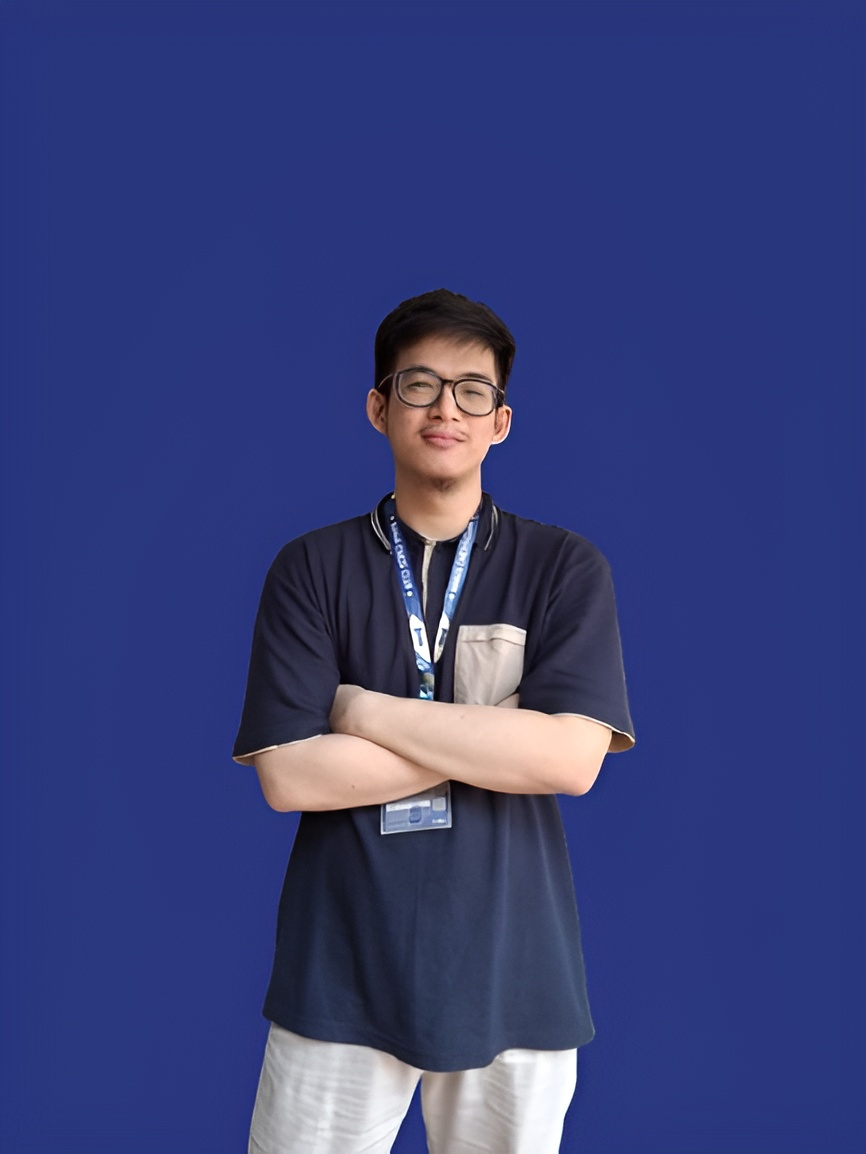
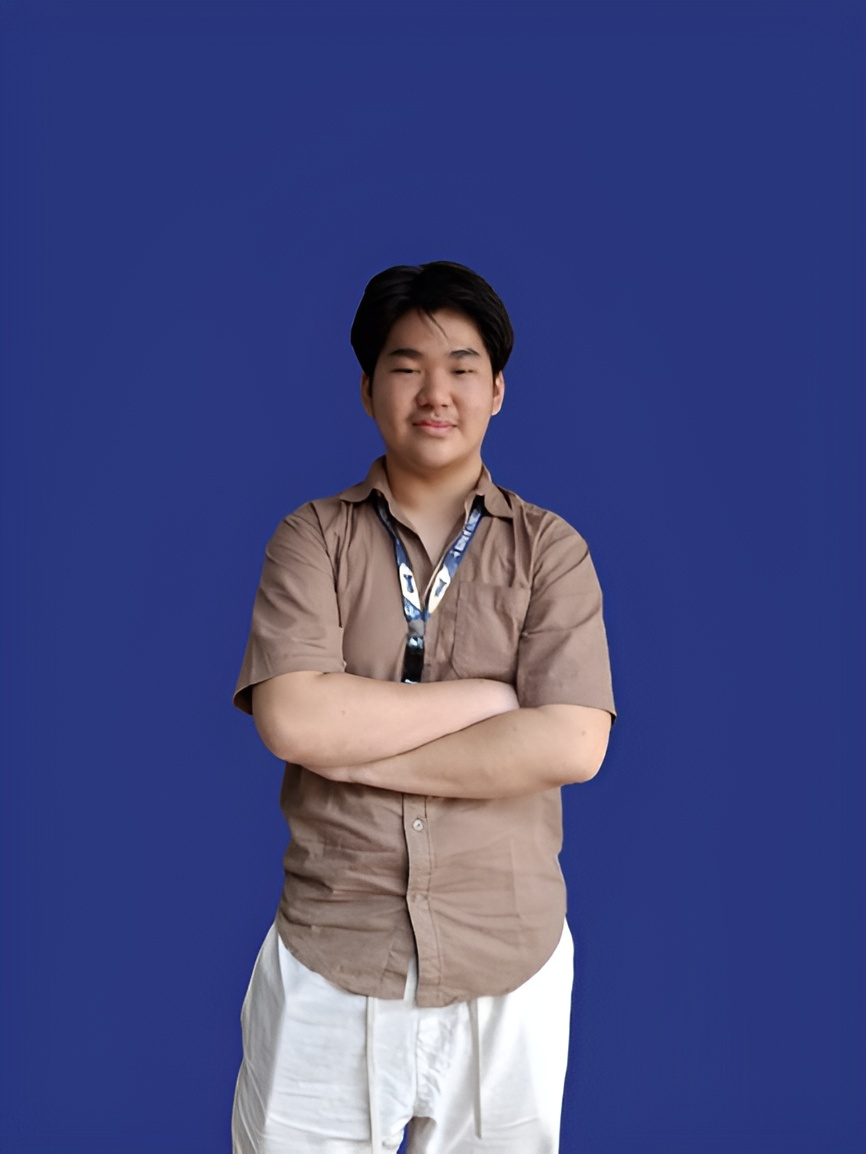
Updated activists' pictures and events

Changed region(s): [[0.2494, 0.2184, 0.7483, 1.0]]

diff --git a/src/pages/EventDetail.tsx b/src/pages/EventDetail.tsx
@@ -19,7 +19,7 @@ const EventDetail = () => {
       location: "BINUS Anggrek Campus, Student Corner 4th floor",
       description:
         "Join us for casual play, puzzles and discussions. All skill levels welcome!",
-      image: "/dailyblitzkrieg.jpeg",
+      image: "/events/dailyblitzkrieg.jpeg",
       type: "upcoming",
       fullDescription:
         "Our Blitz Krieg events are the heart of our chess community. We gather at the Student Corner on the 4th floor of BINUS Anggrek Campus for fast-paced chess action. Whether you're a complete beginner or an experienced player, you'll find a welcoming environment to improve your game through rapid-fire games. Time and date will be announced in our WhatsApp group, so make sure to join us there for updates!",
@@ -30,16 +30,27 @@ const EventDetail = () => {
       date: "March 13, 2025",
       location: "BINUS Auditorium",
       description: "Our grand launching as official BINUS club.",
-      image: "/bcclaunch.jpeg",
+      image: "/events/bcclaunch.jpeg",
       type: "past",
       fullDescription:
         "The grand launching of BINUS Chess Club was a momentous occasion that marked our official recognition as a student organization. The event took place in the main auditorium with over 200 attendees, including faculty members, students, and chess enthusiasts. The ceremony featured opening remarks from university officials, a chess exhibition match, and the unveiling of our club charter. This event established our commitment to promoting chess culture within the BINUS community.",
       gallery: [
-        "/bcclaunch.jpeg",
+        "/events/bcclaunch.jpeg",
         "/together.jpeg",
         "/together2.jpeg",
         "/simul.jpeg"
       ]
+    },
+    {
+      id: "bpjs",
+      title: "BPJS Online Tournament",
+      date: "September 9-10, 2025",
+      location: "Online Lichess",
+      description: "BPJS Cross-University Online Tournament",
+      image: "/events/bpjsonline.jpg",
+      type: "upcoming",
+      fullDescription:
+        "A two-day cross-university chess tournament held online via Lichess. Open to students from different universities to compete and have fun together.",
     },
   ];
 

diff --git a/src/pages/Events.tsx b/src/pages/Events.tsx
@@ -6,14 +6,23 @@ import { Button } from "@/components/ui/button";
 
 const Events = () => {
   const upcomingEvents = [
+    // {
+    //   id: "weekly-meeting",
+    //   title: "Blitz Krieg",
+    //   date: "Time: TBA in WhatsApp group",
+    //   location: "BINUS Anggrek Campus, Student Corner 4th floor",
+    //   description:
+    //     "Join us for casual play, puzzles and discussions. All skill levels welcome!",
+    //   image: "events/dailyblitzkrieg.jpeg",
+    // },
     {
-      id: "weekly-meeting",
-      title: "Blitz Krieg",
-      date: "Time: TBA in WhatsApp group",
-      location: "BINUS Anggrek Campus, Student Corner 4th floor",
+      id: "bpjs",
+      title: "BPJS Online Tournament",
+      date: "9-10 September 2025",
+      location: "Online Lichess",
       description:
-        "Join us for casual play, puzzles and discussions. All skill levels welcome!",
-      image: "dailyblitzkrieg.jpeg",
+        "BPJS Cross-University Online Tournament",
+      image: "events/bpjsonline.jpg",
     },
     // {
     //   title: "BINUS Chess Tournament",
@@ -69,7 +78,7 @@ const Events = () => {
       date: "March 13, 2025",
       location: "BINUS Auditorium",
       description: "Our grand launching as official BINUS club.",
-      image: "bcclaunch.jpeg",
+      image: "events/bcclaunch.jpeg",
     },
     // {
     //   title: "Simultaneous Exhibition",

diff --git a/src/pages/Team.tsx b/src/pages/Team.tsx
@@ -8,13 +8,10 @@ import { Trophy, Medal, Award, ChevronDown, ChevronUp } from "lucide-react";
 // TODO:
 /*
 PICTURES:
-Stanley Christian Gunawan
-Fahri Fadhil
 Muhammad Reza Alghifari
 Jordan
 
 CHESSCOM USERNAMES:
-Galvent Chiuwen
 Jordan
 Michaela Zaneta Hwang
 Keven Wilbert Felik
@@ -133,14 +130,14 @@ const Team = () => {
       position: "Club Activist",
       rating: 1420,
       image: "activist/scaled/sebastian.png",
-      bio: "Active member contributing to various club initiatives and events.",
+      bio: "Sebastian helps with web development, along with it's digital presence.",
       chessComUsername: "Bas77z",
     },
     {
       name: "Fahri Fadhil",
       position: "Club Activist",
       rating: 1400,
-      image: "activist/scaled/fahri.png",
+      image: "activist/scaled/fadhil.png",
       bio: "Dedicated activist supporting club development and member engagement.",
       chessComUsername: "Codename_Vangeance",
     },
@@ -166,7 +163,7 @@ const Team = () => {
       rating: 1250,
       image: "activist/scaled/nathanael.png",
       bio: "Committed member supporting various club initiatives and activities.",
-      chessComUsername: "IJN_MuSaNathShi",
+      chessComUsername: "NathXAra",
     },
     {
       name: "Anthony Vriyatama",

diff --git a/src/pages/Index.tsx b/src/pages/Index.tsx
@@ -9,14 +9,23 @@ import SectionNav from "@/components/SectionNav";
 
 const Index = () => {
   const upcomingEvents = [
+    // {
+    //   id: "weekly-meeting",
+    //   title: "Blitz Krieg",
+    //   date: "Time: TBA in WhatsApp group",
+    //   location: "BINUS Anggrek Campus, Student Corner 4th floor",
+    //   description:
+    //     "Join us for casual play, puzzles and discussions. All skill levels welcome!",
+    //   image: "events/dailyblitzkrieg.jpeg",
+    // },
     {
-      id: "weekly-meeting",
-      title: "Blitz Krieg",
-      date: "Time: TBA in WhatsApp group",
-      location: "BINUS Anggrek Campus, Student Corner 4th floor",
+      id: "bpjs",
+      title: "BPJS Online Tournament",
+      date: "9-10 September 2025",
+      location: "Online Lichess",
       description:
-        "Join us for casual play, puzzles and discussions. All skill levels welcome!",
-      image: "/dailyblitzkrieg.jpeg",
+        "BPJS Cross-University Online Tournament",
+      image: "events/bpjsonline.jpg",
     },
   ];
 
